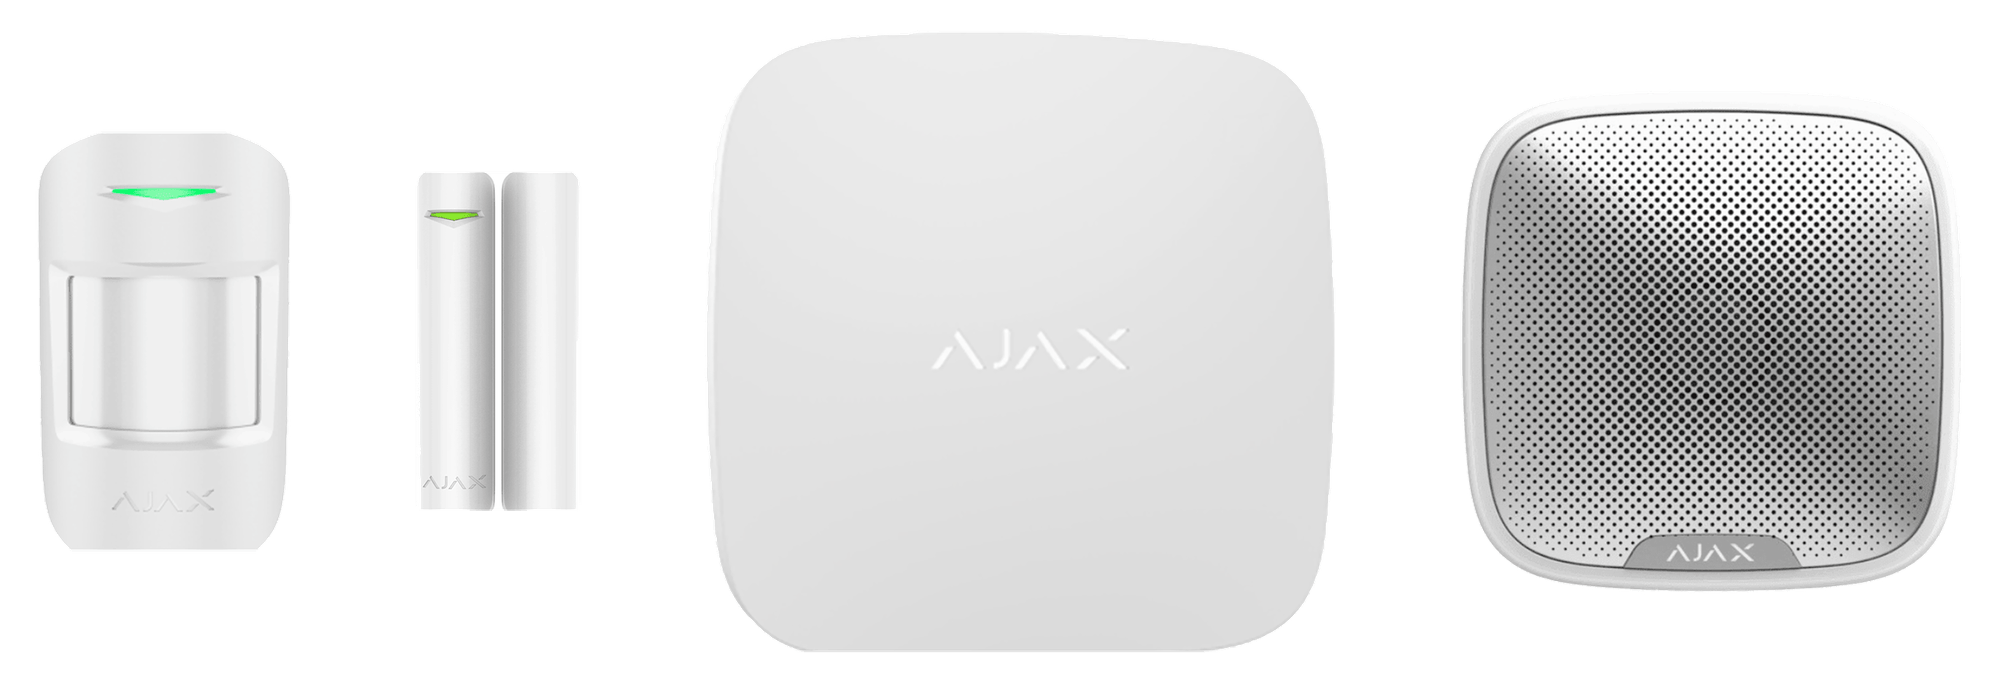
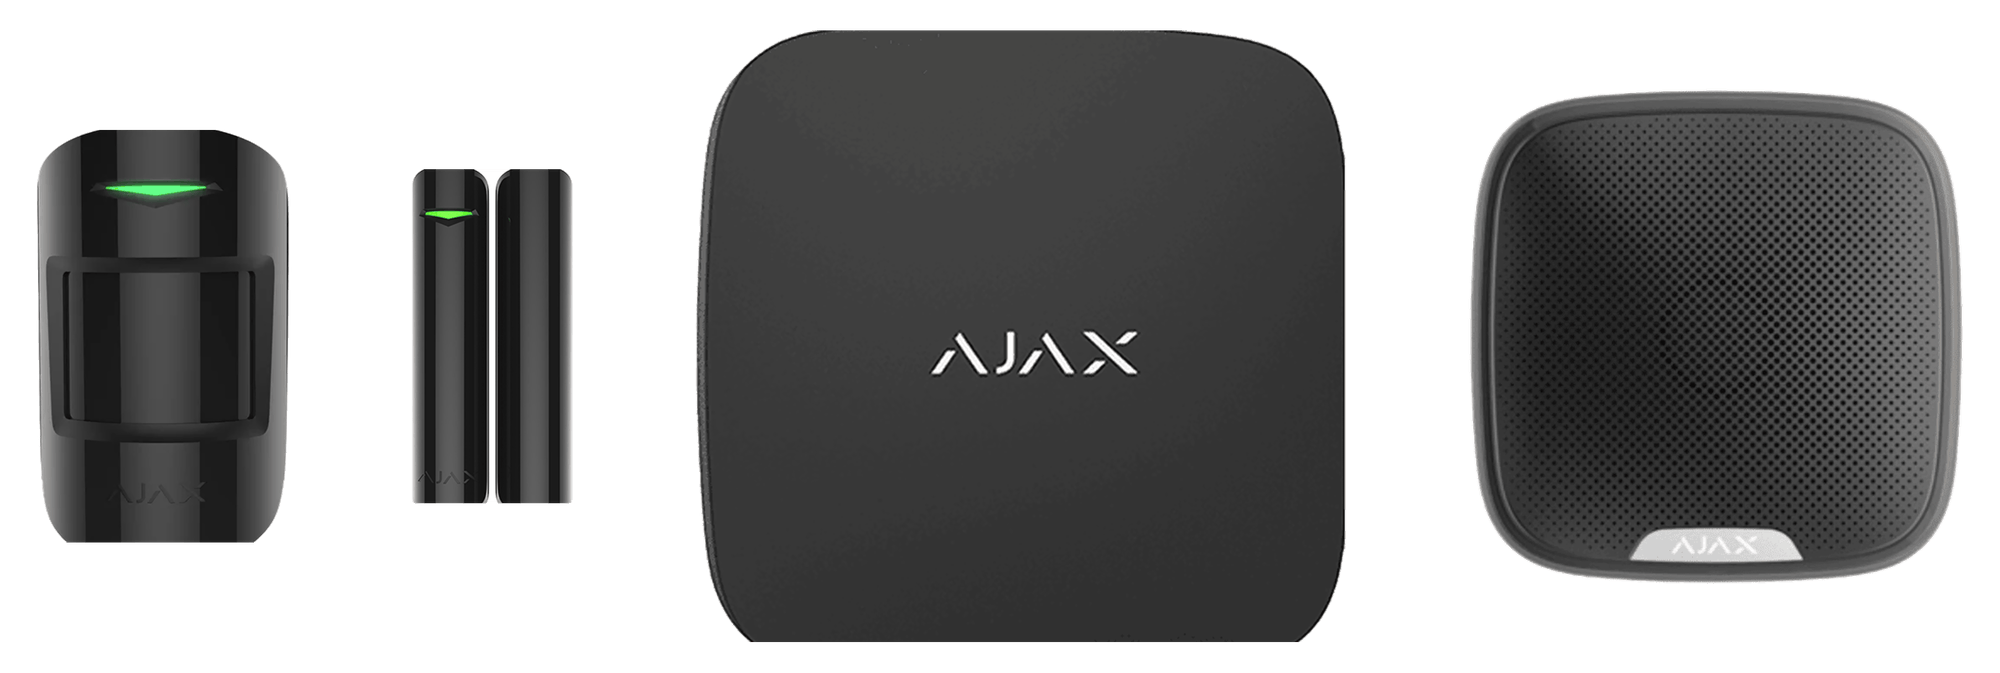
Paquete Ajax: vuelve al equipo negro (el kit del cliente), ya en alta resolucion
El cambio a blanco fue decision mia y no correspondia: el kit que vende el cliente
es negro. Se rehace la composicion en negro con el mismo pipeline corregido.

- Renders negros de TVC: MotionProtect B, DoorProtect B, Hub 2 Plus B y
  StreetSiren B (Sirena Exterior Reforzada), todos frontales y a la misma escala real
- Alfa por fondo conectado al borde: producto 100% opaco, sin que el fondo de la
  tarjeta se filtre a traves del equipo
- 2000x673 sin bandas ni dithering; cache-buster ?v=4

diff --git a/comercial.html b/comercial.html
@@ -2542,7 +2542,7 @@
             <li><i class="ph-fill ph-check-circle"></i> 1 Sensor de movimiento inalámbrico</li>
             <li><i class="ph-fill ph-check-circle"></i> 1 Sirena Exterior Reforzada inalámbrica</li>
           </ul>
-          <div class="paquete-img"><img loading="lazy" decoding="async" src="assets/paquete-03-img.png?v=3" alt="Paquete Ajax Plus Premium"></div>
+          <div class="paquete-img"><img loading="lazy" decoding="async" src="assets/paquete-03-img.png?v=4" alt="Paquete Ajax Plus Premium"></div>
           <a href="https://wa.me/5218120409959?text=Hola%2C%20me%20interesa%20el%20Paquete%20Ajax%20Plus%20Premium.%20%C2%BFMe%20pueden%20dar%20m%C3%A1s%20informaci%C3%B3n%3F" class="btn btn-outline" target="_blank" rel="noopener">Más información a tu medida</a>
         </div>
 

diff --git a/residencial.html b/residencial.html
@@ -3029,7 +3029,7 @@
             <li><i class="ph-fill ph-check-circle"></i> 1 Sensor de movimiento inalámbrico</li>
             <li><i class="ph-fill ph-check-circle"></i> 1 Sirena Exterior Reforzada inalámbrica</li>
           </ul>
-          <div class="paquete-img"><img loading="lazy" decoding="async" src="assets/paquete-03-img.png?v=3" alt="Paquete Ajax Plus Premium"></div>
+          <div class="paquete-img"><img loading="lazy" decoding="async" src="assets/paquete-03-img.png?v=4" alt="Paquete Ajax Plus Premium"></div>
           <a href="https://wa.me/5218120409959?text=Hola%2C%20me%20interesa%20el%20Paquete%20Ajax%20Plus%20Premium.%20%C2%BFMe%20pueden%20dar%20m%C3%A1s%20informaci%C3%B3n%3F" class="btn btn-outline" target="_blank" rel="noopener">Más información a tu medida</a>
         </div>
 
